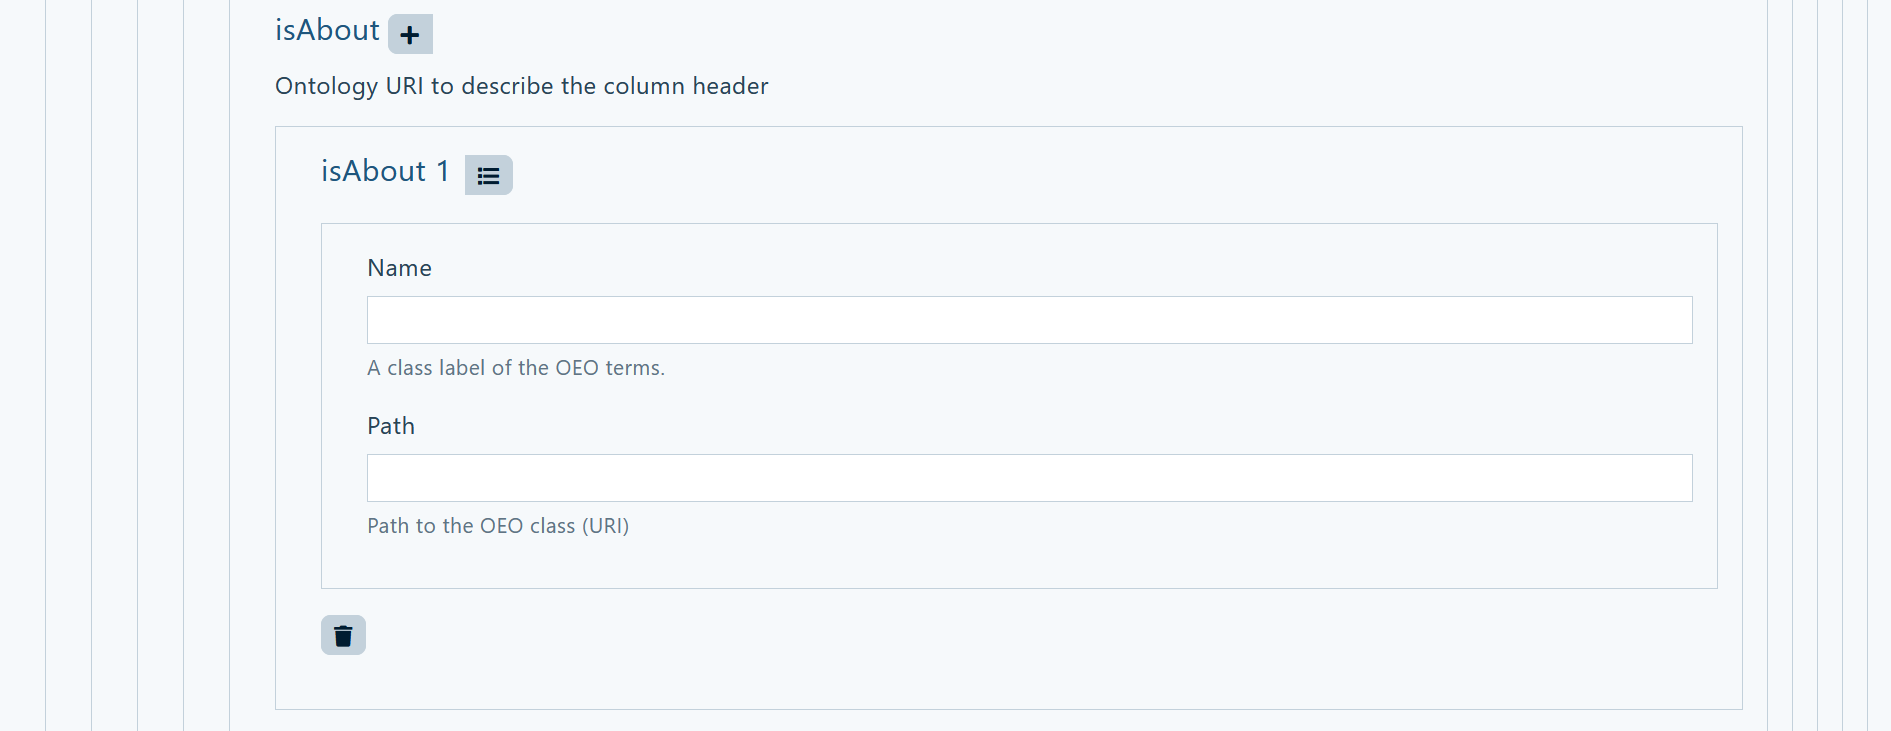
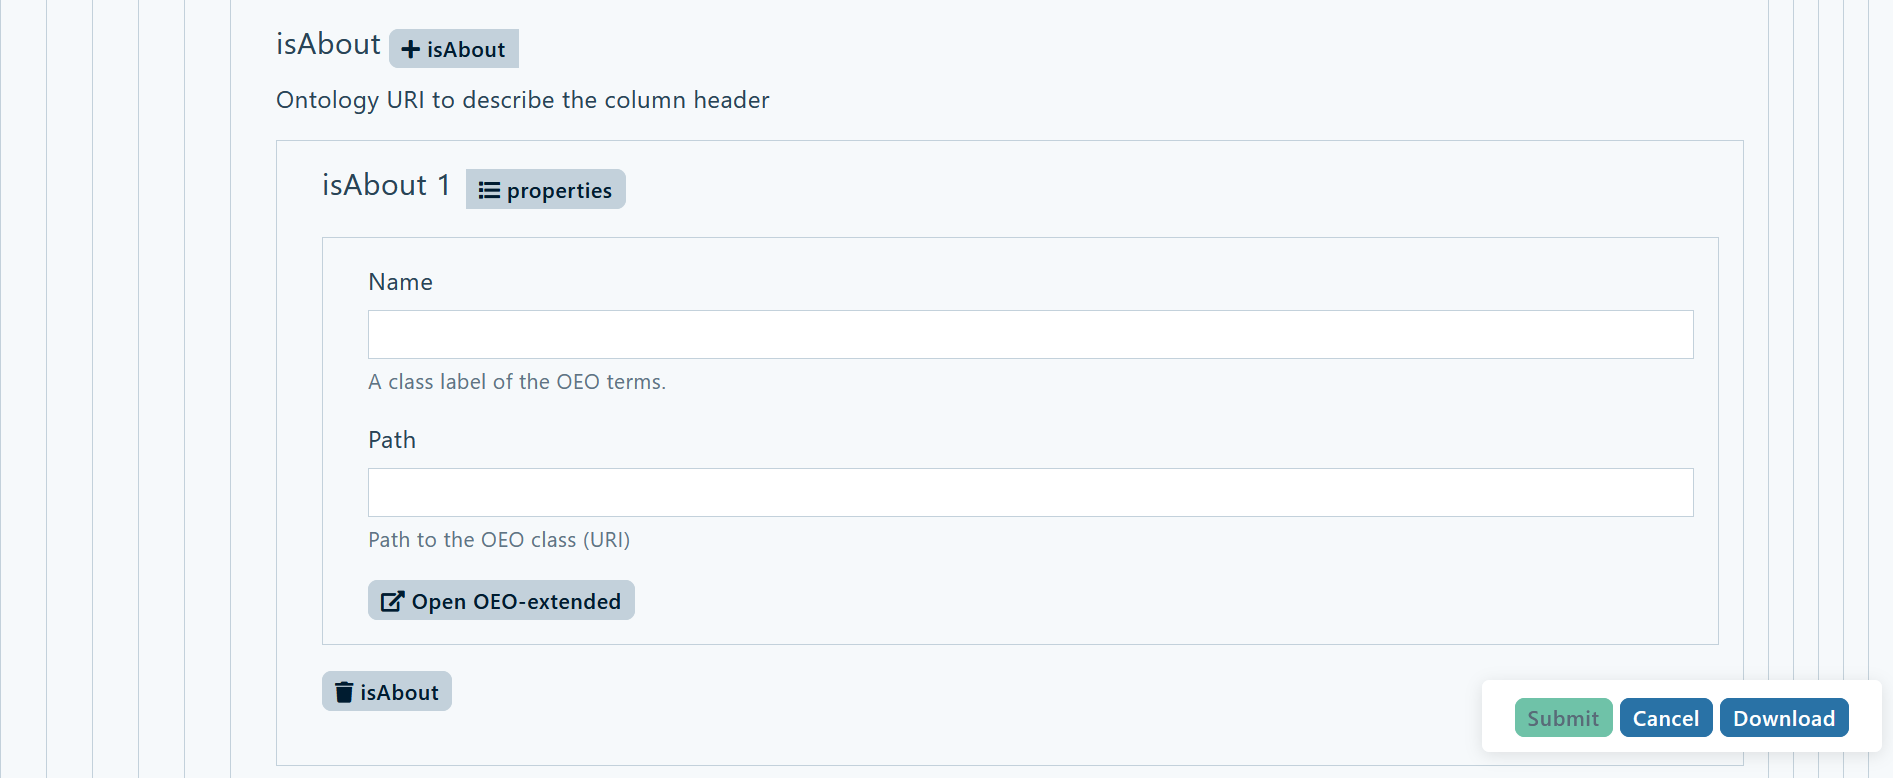
Add OEOX #245

diff --git a/docs/tutorials/99_other/oemetadata.md b/docs/tutorials/99_other/oemetadata.md
@@ -8,6 +8,7 @@ This tutorial will enable you to:
 
 - know what OEMetaData are
 - create and modify OEMetaData
+- use the OEO-extended to create new units
 
 ## Introduction
 
@@ -71,6 +72,11 @@ You can specify the content of a field in your table by identifying the field, g
 ![Field](images/Screenshots_OEMetaData/18_Field-1.png)
 The important step of making the connection between the entries in your table and the classes of the ontology happens now by providing the human readable term and the path to the OEO.
 ![isabout](images/Screenshots_OEMetaData/19_isabout.png)
+**Using the OEOextended**
+If you want to use an unit which is not in the OEO yet, meaning you can't find it via the implemented search, you can click on the button `Open OEO-extended`. This will open a popup window.
+![OEOex](images/Screenshots_OEMetaData/19-1_OEOex.png)
+In the OEO-extended (OEOX) it is possible to create an additional unit using units already existing in the OEO. All created units will be reviewed and published on [GitHub](https://github.com/OpenEnergyPlatform/oeo-extended) and uploaded to the OEO. For further information on the OEOX please see [this paper](https://www.utwente.nl/en/eemcs/fois2024/resources/papers/kohler-et-al-oeox-a-post-coordination-extension-for-the-open-energy-ontology.pdf). To create the new unit you can choose your `Numerator(s)` and `Denominator(s). You can respectively choose the unit name from all units implemented in the OEO, e.g. hour, a `Unit Type` according to the power you want to have (linear, squared or cubic) and, if neccessarry, a `Unit Prefix` e.g. mega. Once you entered something in the `Unit Name`-field a fraction will appear showing you the unit you are about to create. It is possible to choose mulitple Numerator and Denominator, which will be each multiplied by each other. When you created the unit you want to use, click `Save`. Then the URI to the new unit in the OEOX will appear. You have to copy and paste it to your browser in order to entry the `Name` and `Path` in the `isAbout`-field. The OEOX is implemented on different fields in the OEMetaDataBuilder to make it easier to create new units. 
+![isabout](images/Screenshots_OEMetaData/19-2_Result.png)
 You can also provide a class of the OEO for entries of a whole column. By giving the name of the column and the name and path of the OEO class as well as the unit. Of course you can do this for multiples rows by clicking on the `+` right next to the headline `ValueReferences`.
 ![ValueReferences](images/Screenshots_OEMetaData/20_ValueReferences.png)
 ![EndeField](images/Screenshots_OEMetaData/21_EndeField.png)
